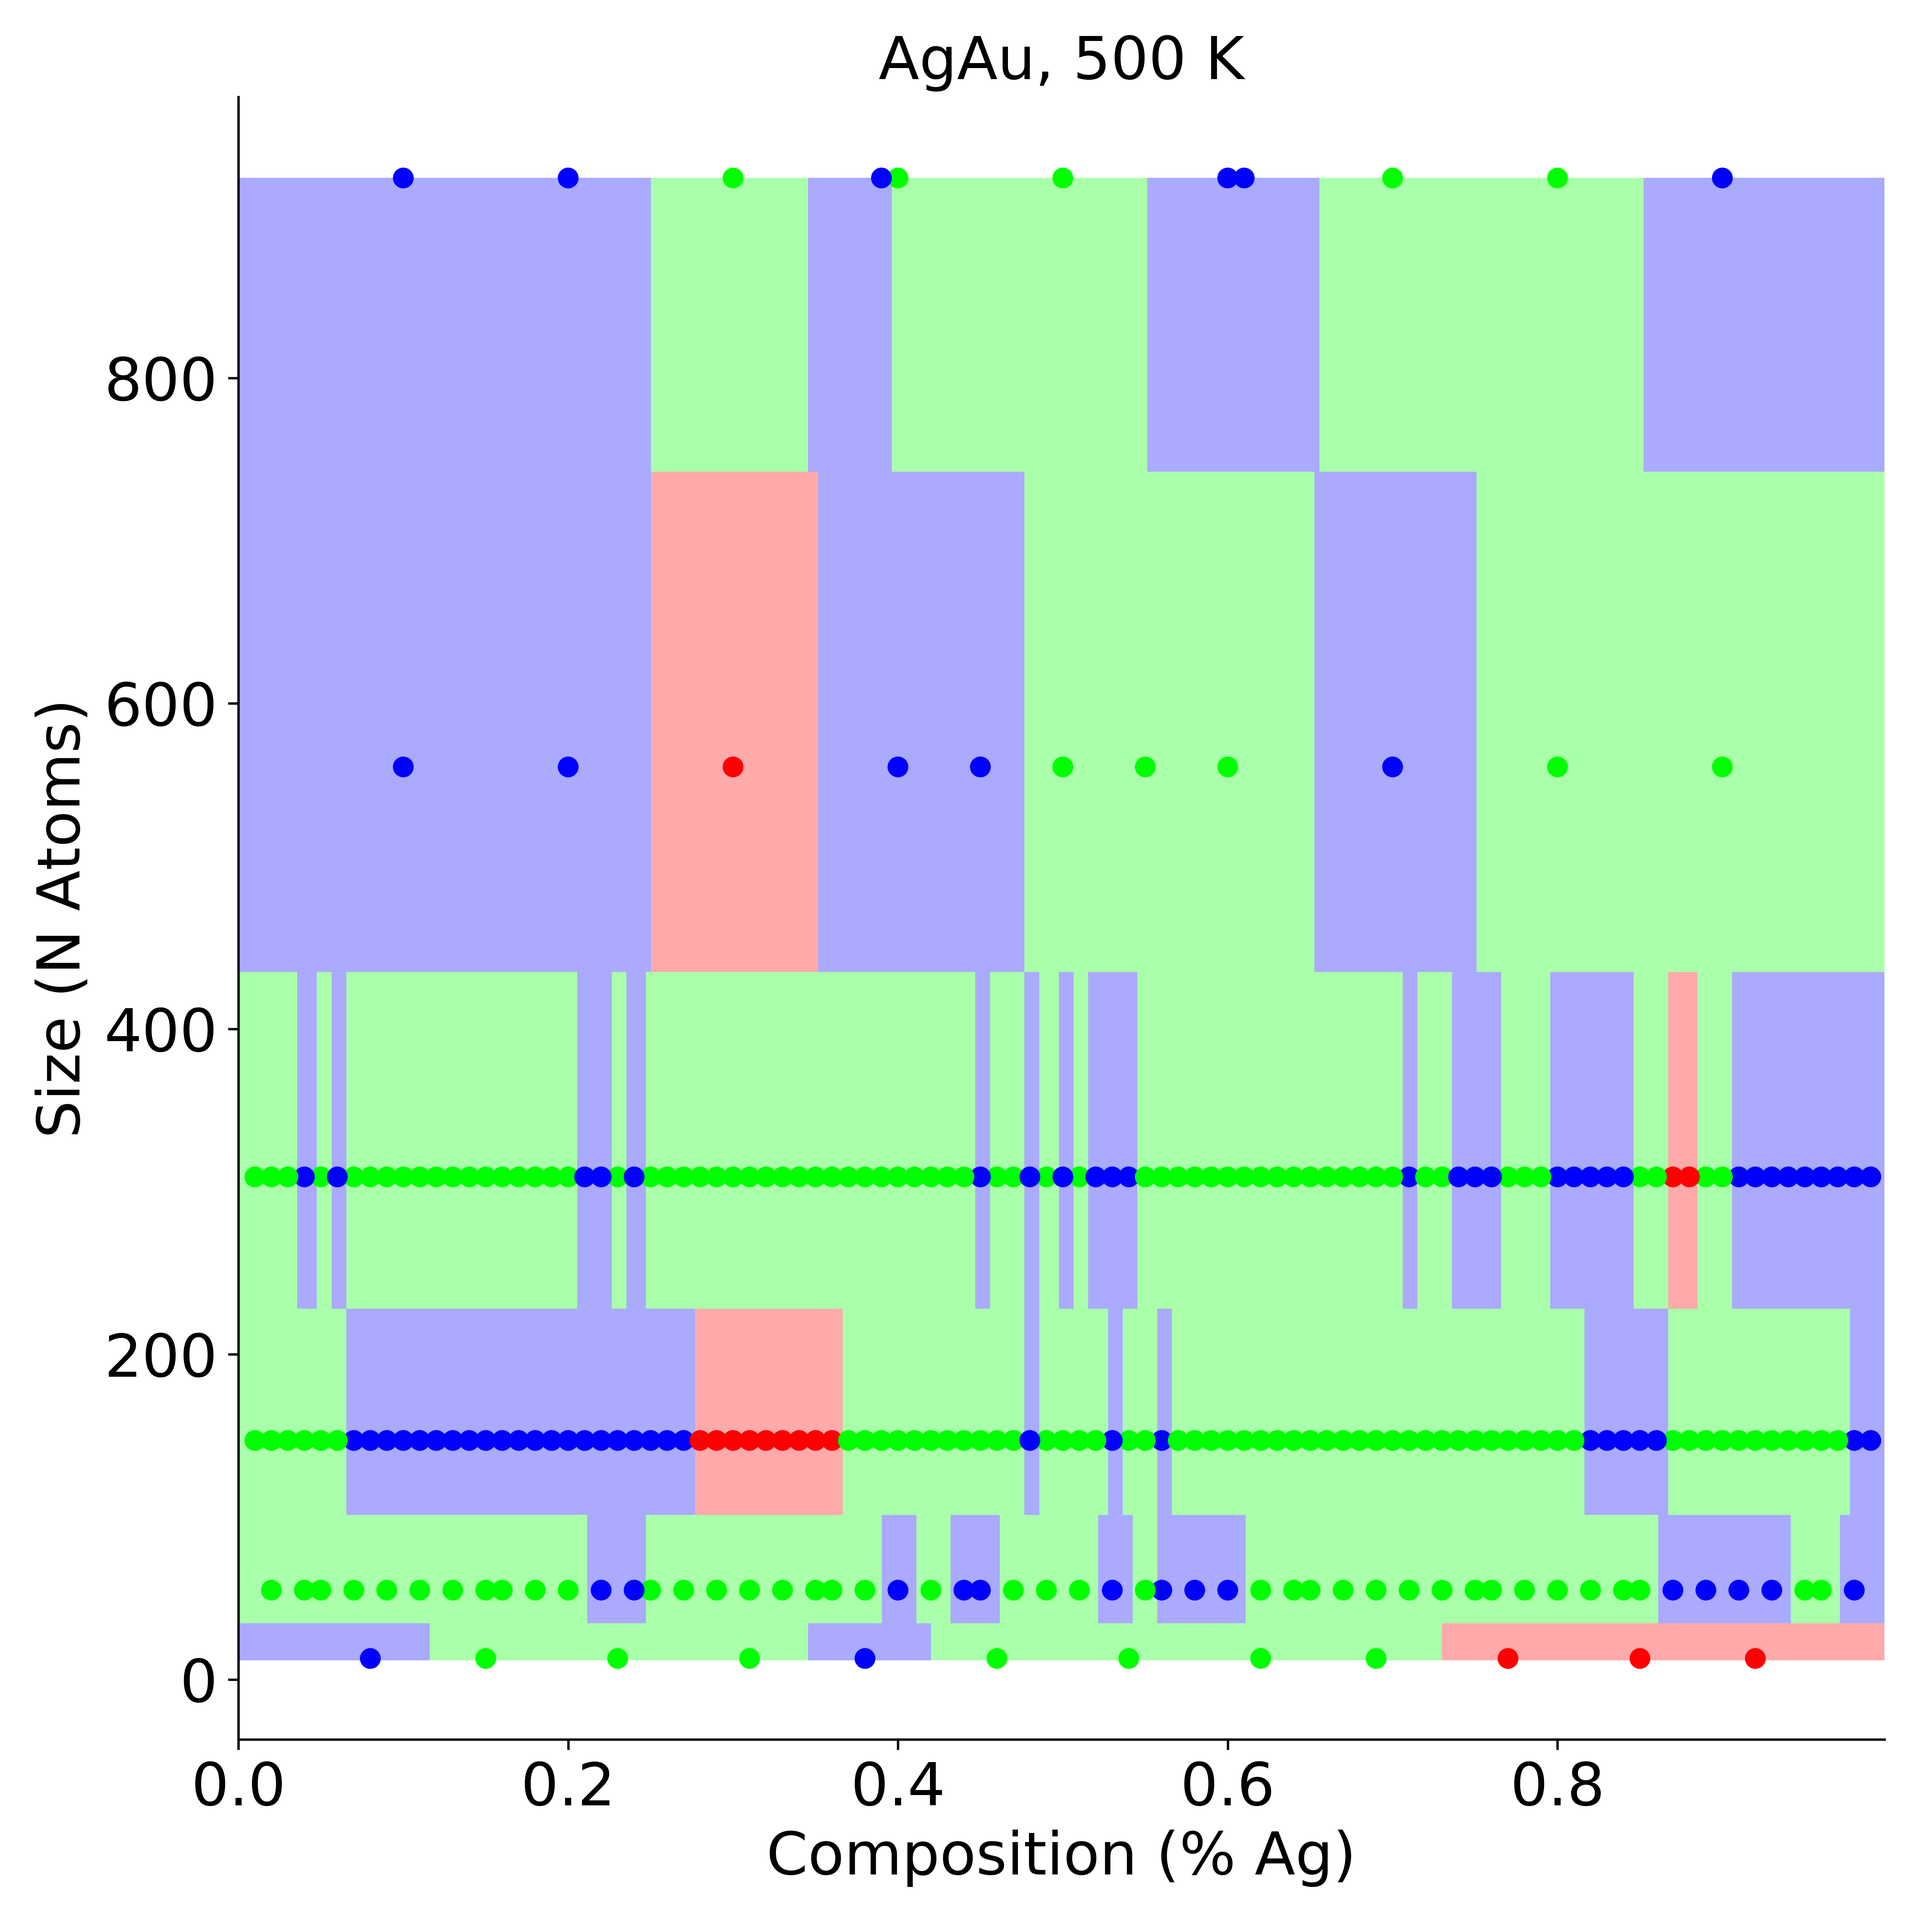
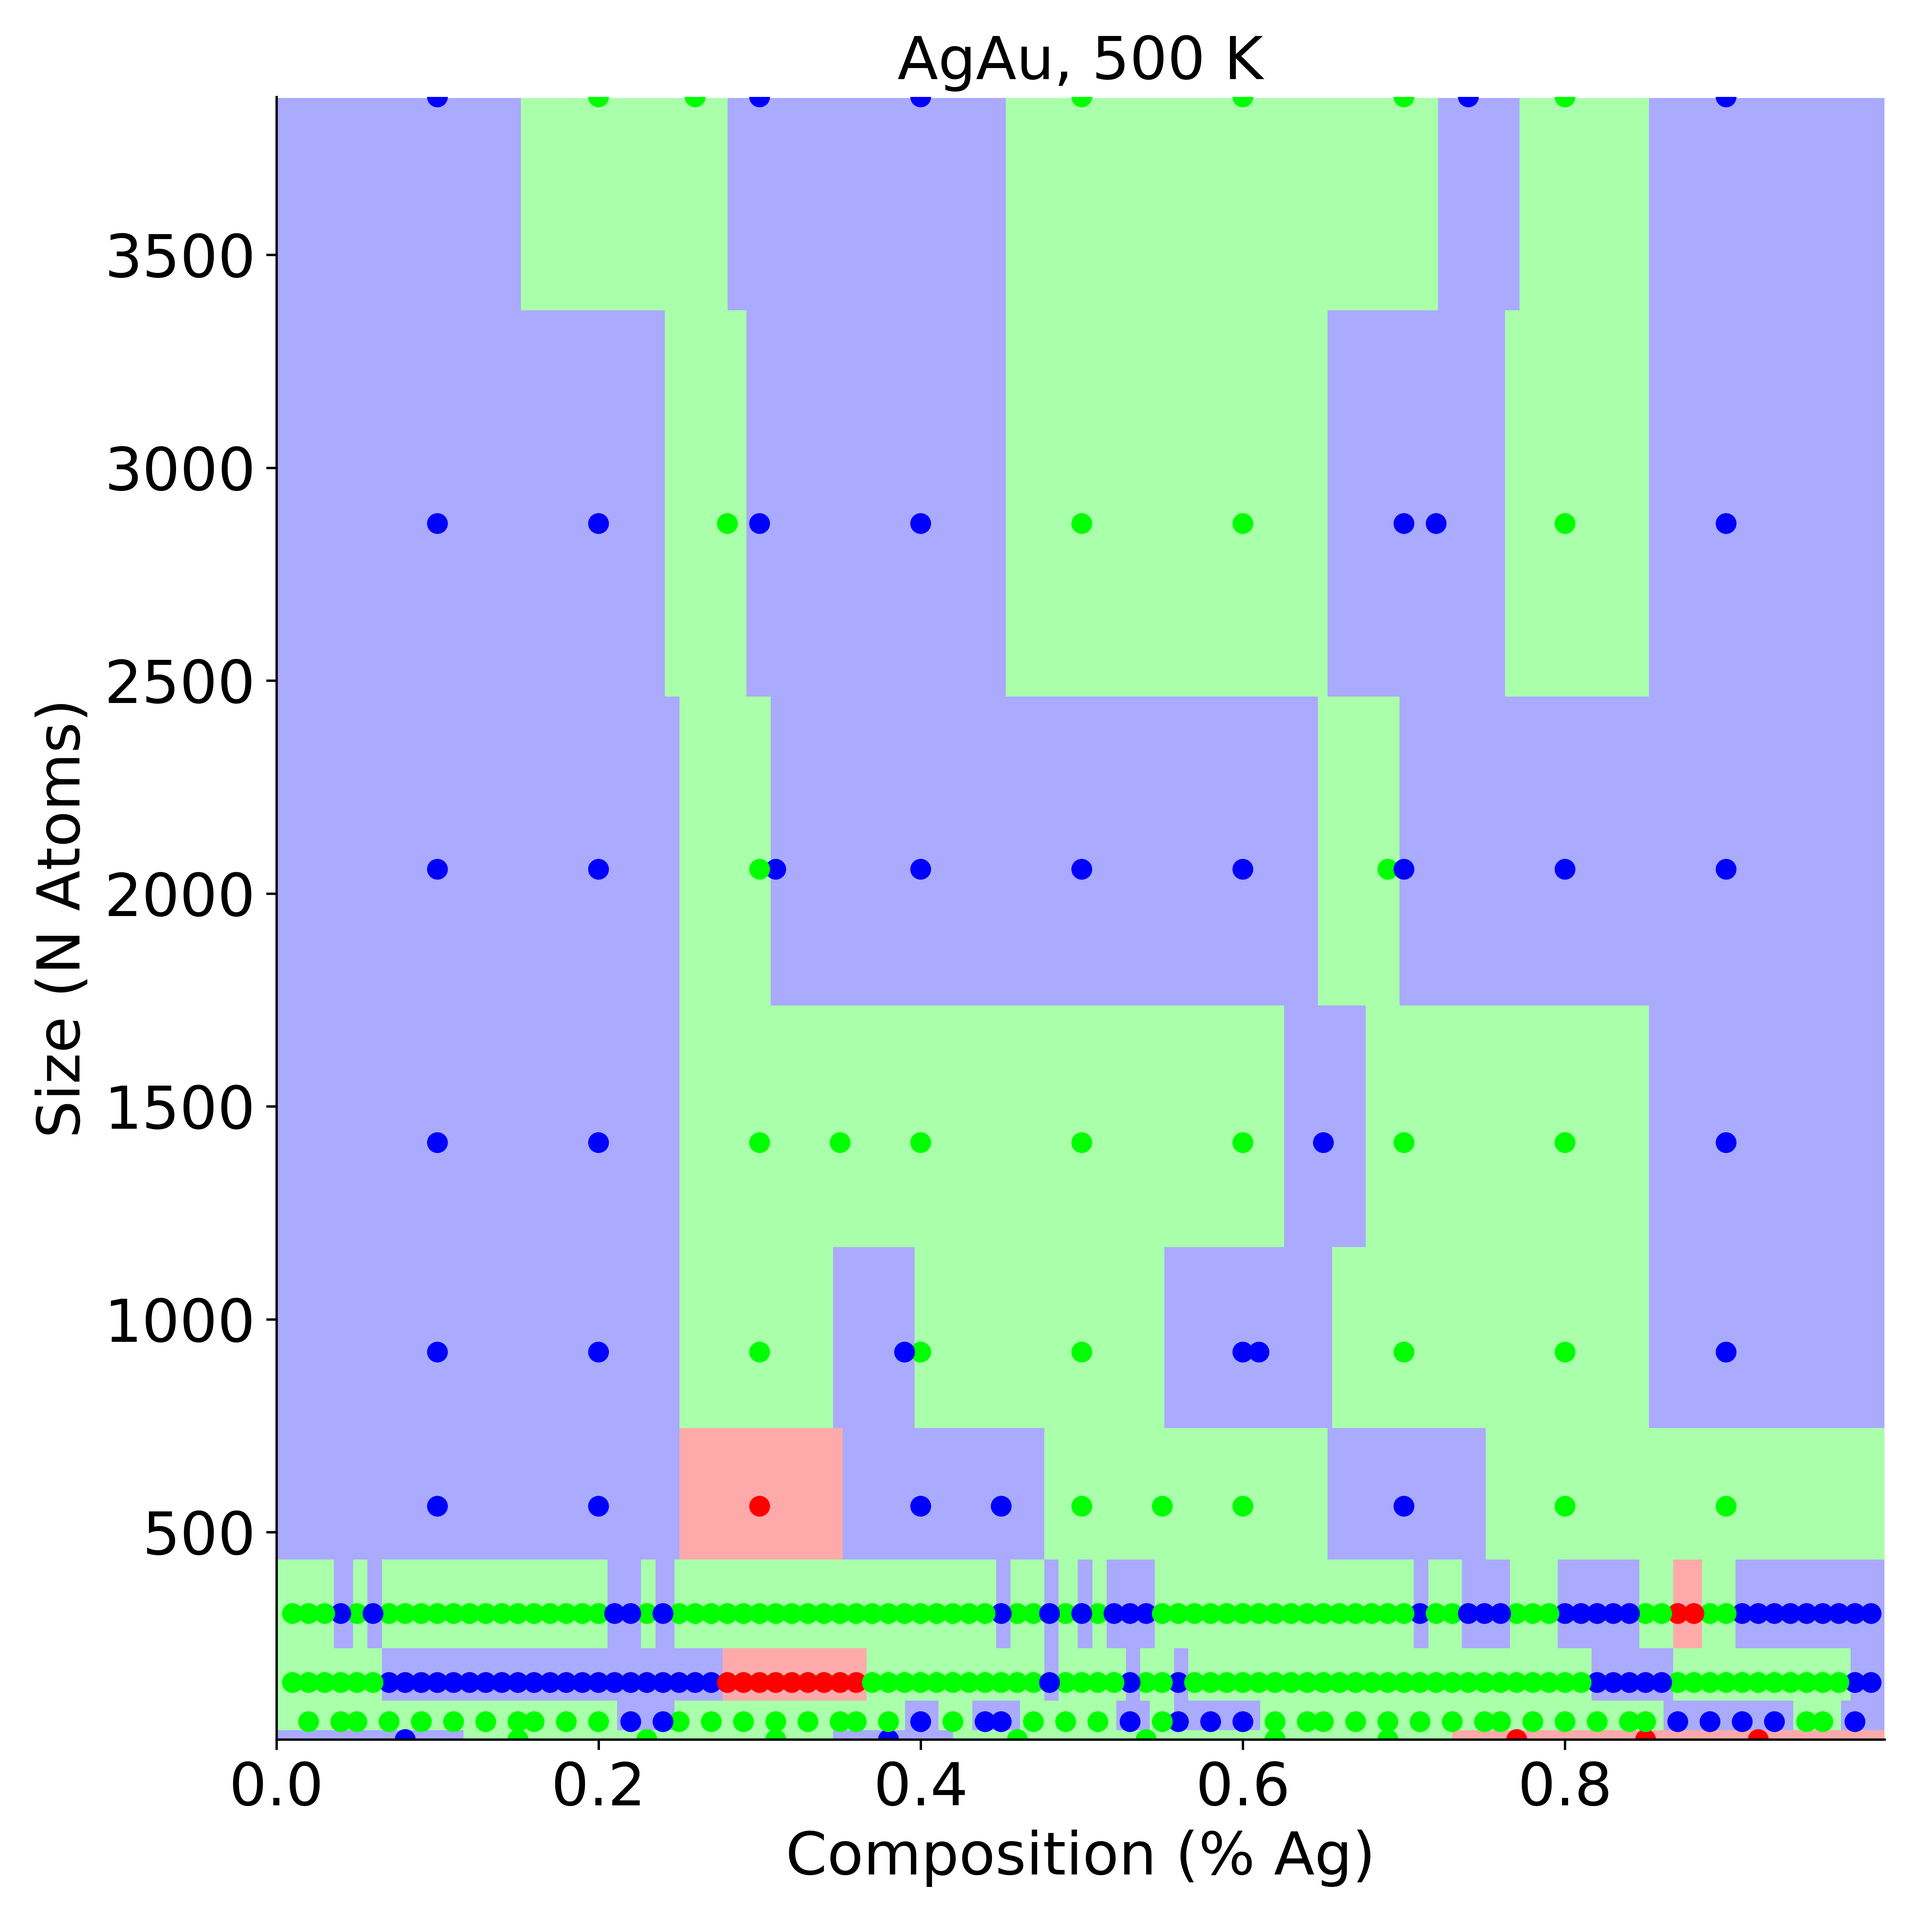
Update thermo plots

diff --git a/example/ex_4_phase_diagrams/size_vs_comp.py b/example/ex_4_phase_diagrams/size_vs_comp.py
@@ -290,6 +290,7 @@ def make_filled(points, alloy, resolution=10):
                          matplotlib.lines.Line2D([0],[0], color=cmap_bold(2), marker="o", lw=0)]
         #ax.legend(custom_legend, ["Ico", "EPB", "Cuboct"], fancybox=True, framealpha=0.5)
         plt.tight_layout()
+        plt.ylim(13,3871)
         plt.savefig("size_comp_" + alloy + "_" + str(temp) + "K.png")
         plt.close()
 
@@ -297,6 +298,6 @@ alloys = ["AgAu" , "AgCu", "AuCu"]
 print("asdf")
 for alloy in alloys:
     print(alloy)
-    results = get_best(alloy, [0, 1000], [0, 1000], temperature_res=250)
+    results = get_best(alloy, [0, 4000], [0, 1000], temperature_res=250)
     print("asdfasdfasdf")
     make_filled(results, alloy, resolution=1000)
